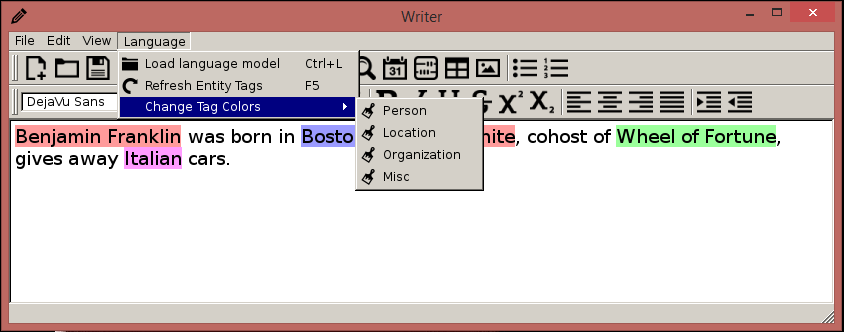
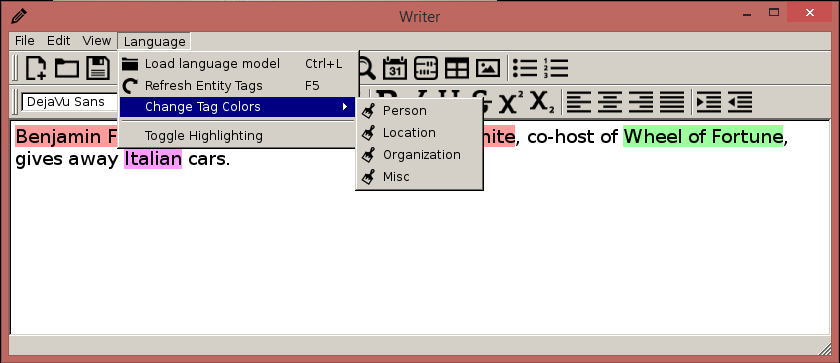
Added toggle for highlighting

Changed region(s): [[0.0, 0.0, 1.0, 1.0], [0.8667, 0.0301, 0.9286, 0.0602]]

diff --git a/app.py b/app.py
@@ -19,6 +19,8 @@ class Main(QtGui.QMainWindow):
 
         self.loaded_language = False
 
+        self.do_highlight = True
+
         self.ner = ''
 
         self.colors = {'PERSON':QtGui.QColor.fromRgb(255, 0, 0, 100),
@@ -50,6 +52,9 @@ class Main(QtGui.QMainWindow):
         self.refreshTagsAction.setStatusTip("Relabel all entities in document")
         self.refreshTagsAction.setShortcut("F5")
         self.refreshTagsAction.triggered.connect(self.get_tags)
+
+        self.toggleHighlightingAction = QtGui.QAction("Toggle Highlighting", self)
+        self.toggleHighlightingAction.triggered.connect(self.toggle_highlighting)
 
         self.changePersonColor = QtGui.QAction(QtGui.QIcon("icons/highlight.png"), "Person", self)
         self.changePersonColor.triggered.connect(lambda: self.change_colors('PERSON'))
@@ -302,6 +307,8 @@ class Main(QtGui.QMainWindow):
         language.addAction(self.loadModelAction)
         language.addAction(self.refreshTagsAction)
         colormenu = language.addMenu("Change Tag Colors")
+        language.addSeparator()
+        language.addAction(self.toggleHighlightingAction)
 
         colormenu.addAction(self.changePersonColor)
         colormenu.addAction(self.changeLocationColor)
@@ -360,7 +367,8 @@ class Main(QtGui.QMainWindow):
             for e in entities:
                 tag = e[1]
                 print "   " + tag + ": " + " ".join(tokens[i] for i in e[0])
-            self.highlight_entities(entities, tokens)
+            if self.do_highlight:
+                self.highlight_entities(entities, tokens)
         return entities
 
     def highlight_entities(self, entities, tokens):
@@ -389,6 +397,27 @@ class Main(QtGui.QMainWindow):
         cursor = self.text.textCursor()
         cursor.setPosition(original_position)
         self.text.setTextCursor(cursor)
+
+    def toggle_highlighting(self):
+        if self.loaded_language:
+            self.do_highlight = not self.do_highlight
+            if not self.do_highlight:
+                end = len(str(self.text.toPlainText()))
+                cursor = self.text.textCursor()
+                pos = cursor.position()
+
+                cursor.setPosition(0)
+                cursor.movePosition(QtGui.QTextCursor.Right,QtGui.QTextCursor.KeepAnchor,end)
+                self.text.setTextCursor(cursor)
+                self.text.setTextBackgroundColor(QtGui.QColor.fromRgb(255, 255, 255))
+                
+                cursor = self.text.textCursor()
+                cursor.setPosition(pos)
+                self.text.setTextCursor(cursor)
+            else:
+                
+                self.get_tags()
+
 
     def change_colors(self, tag):
         color = QtGui.QColorDialog.getColor()
